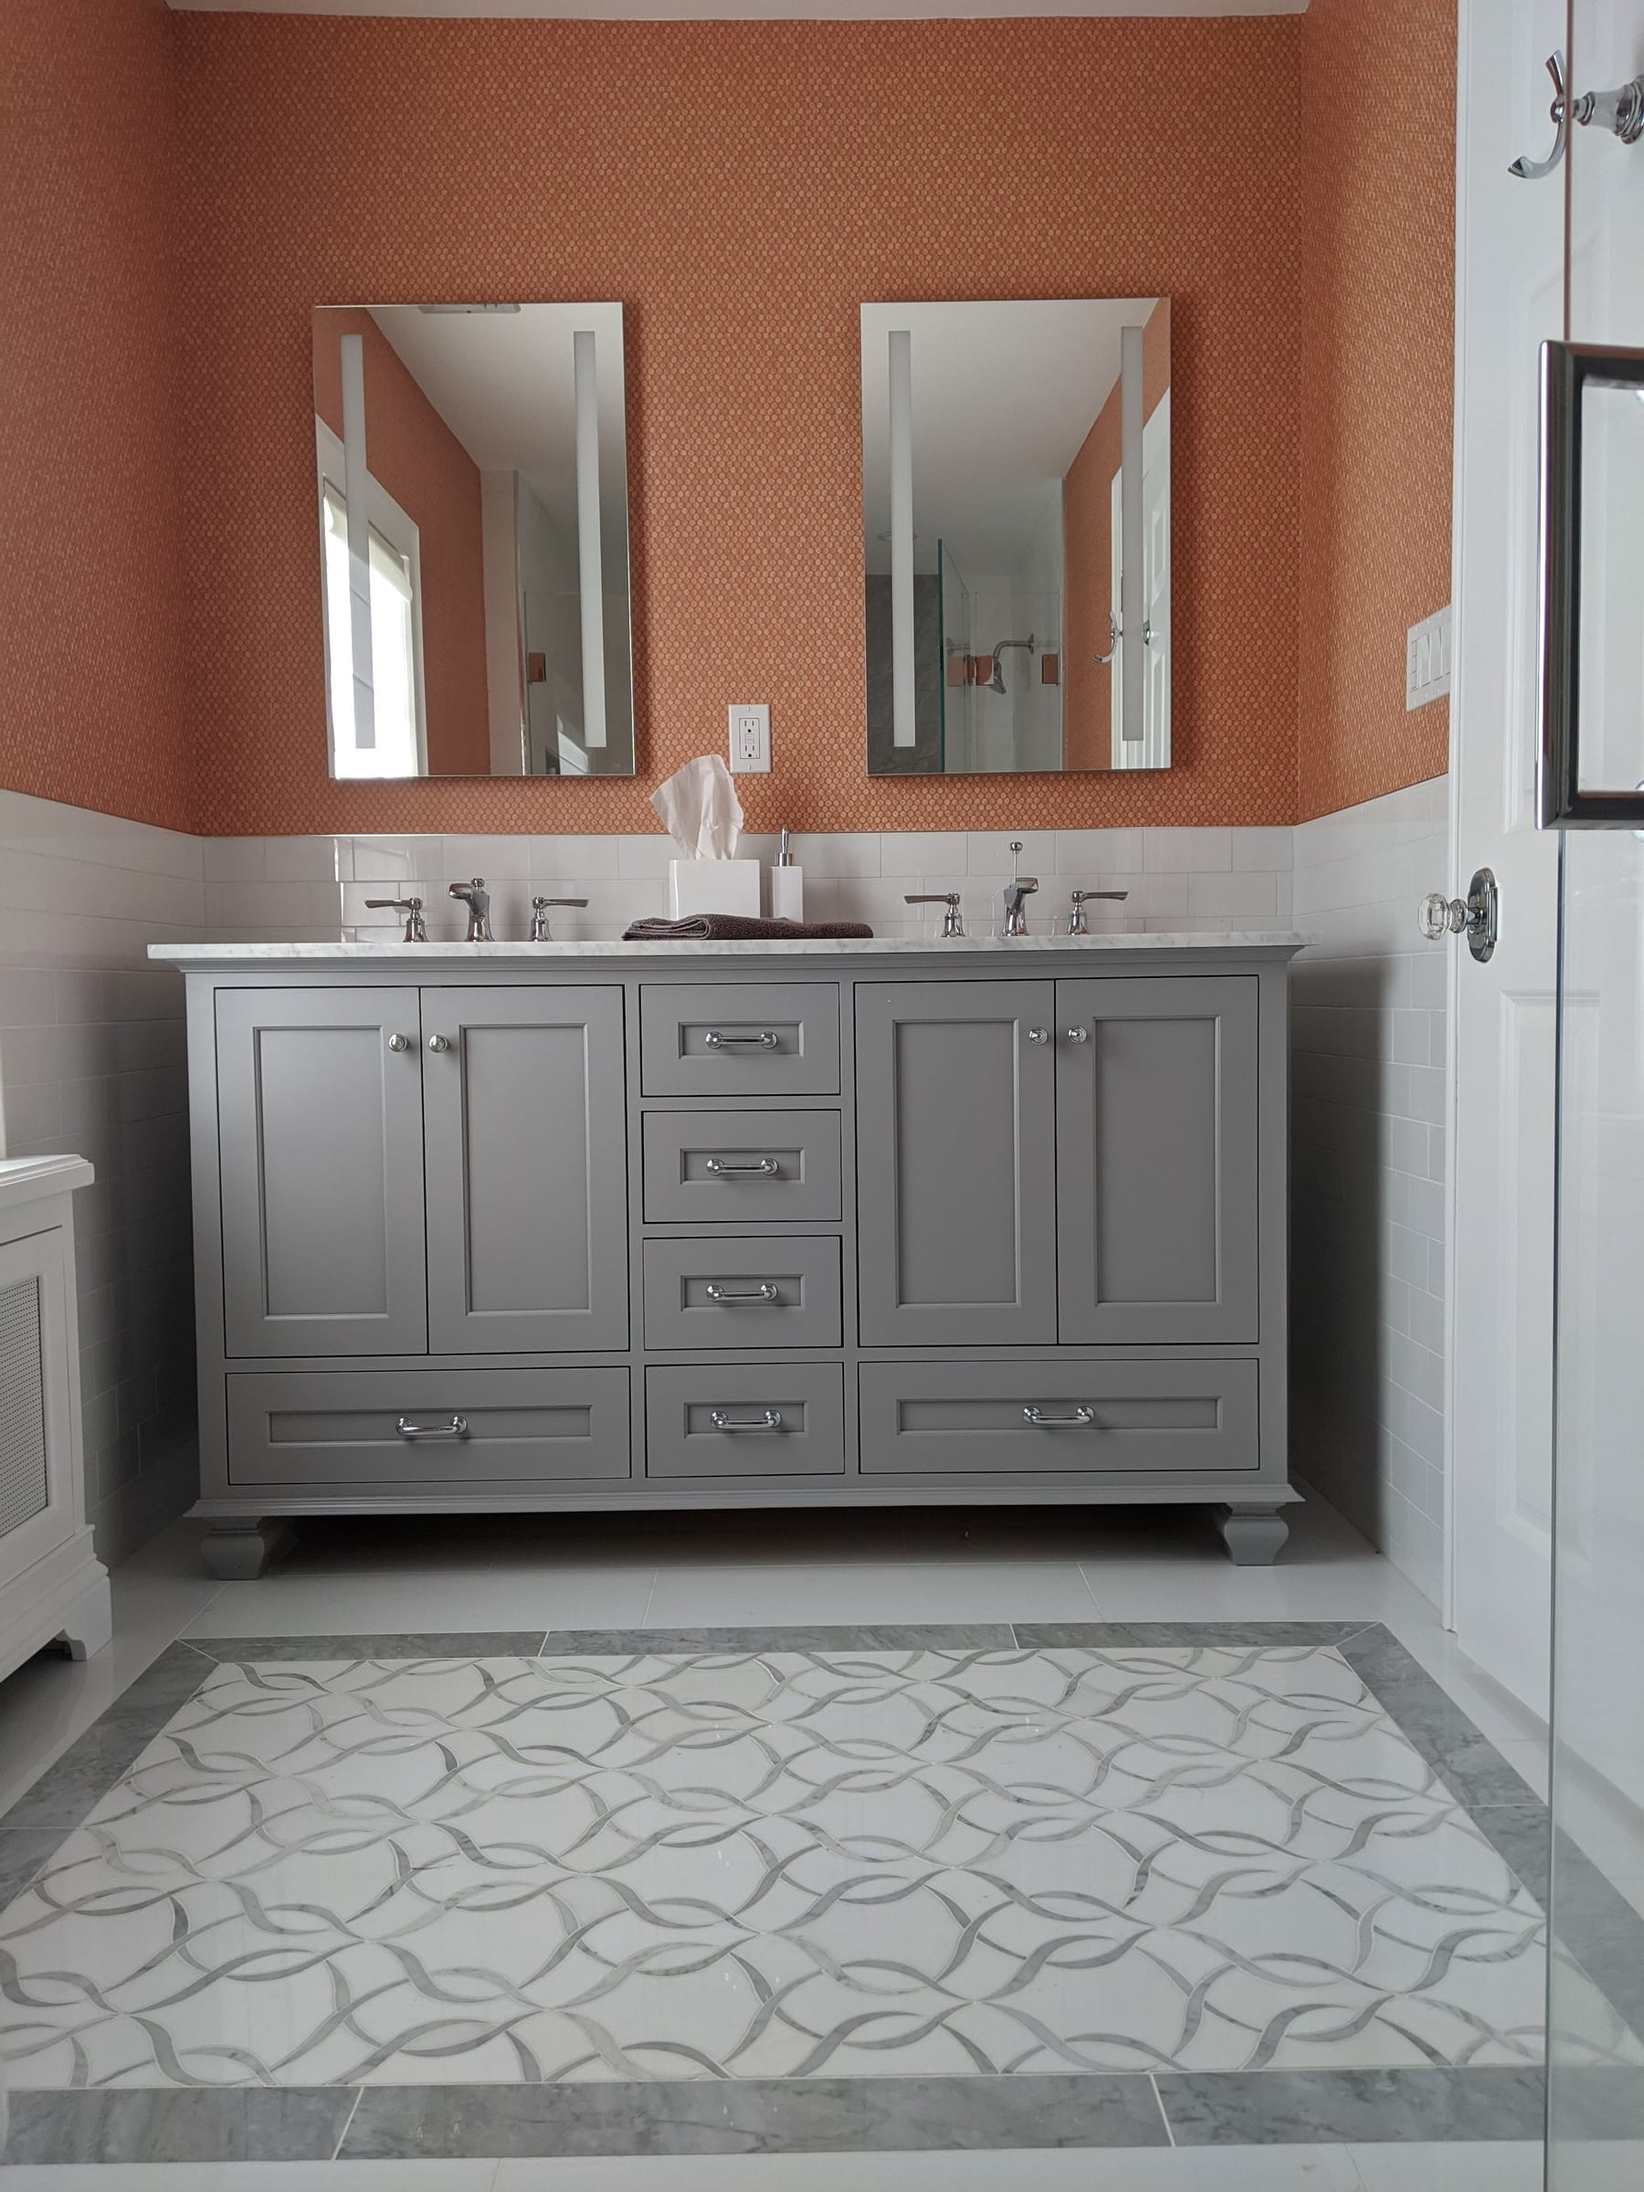
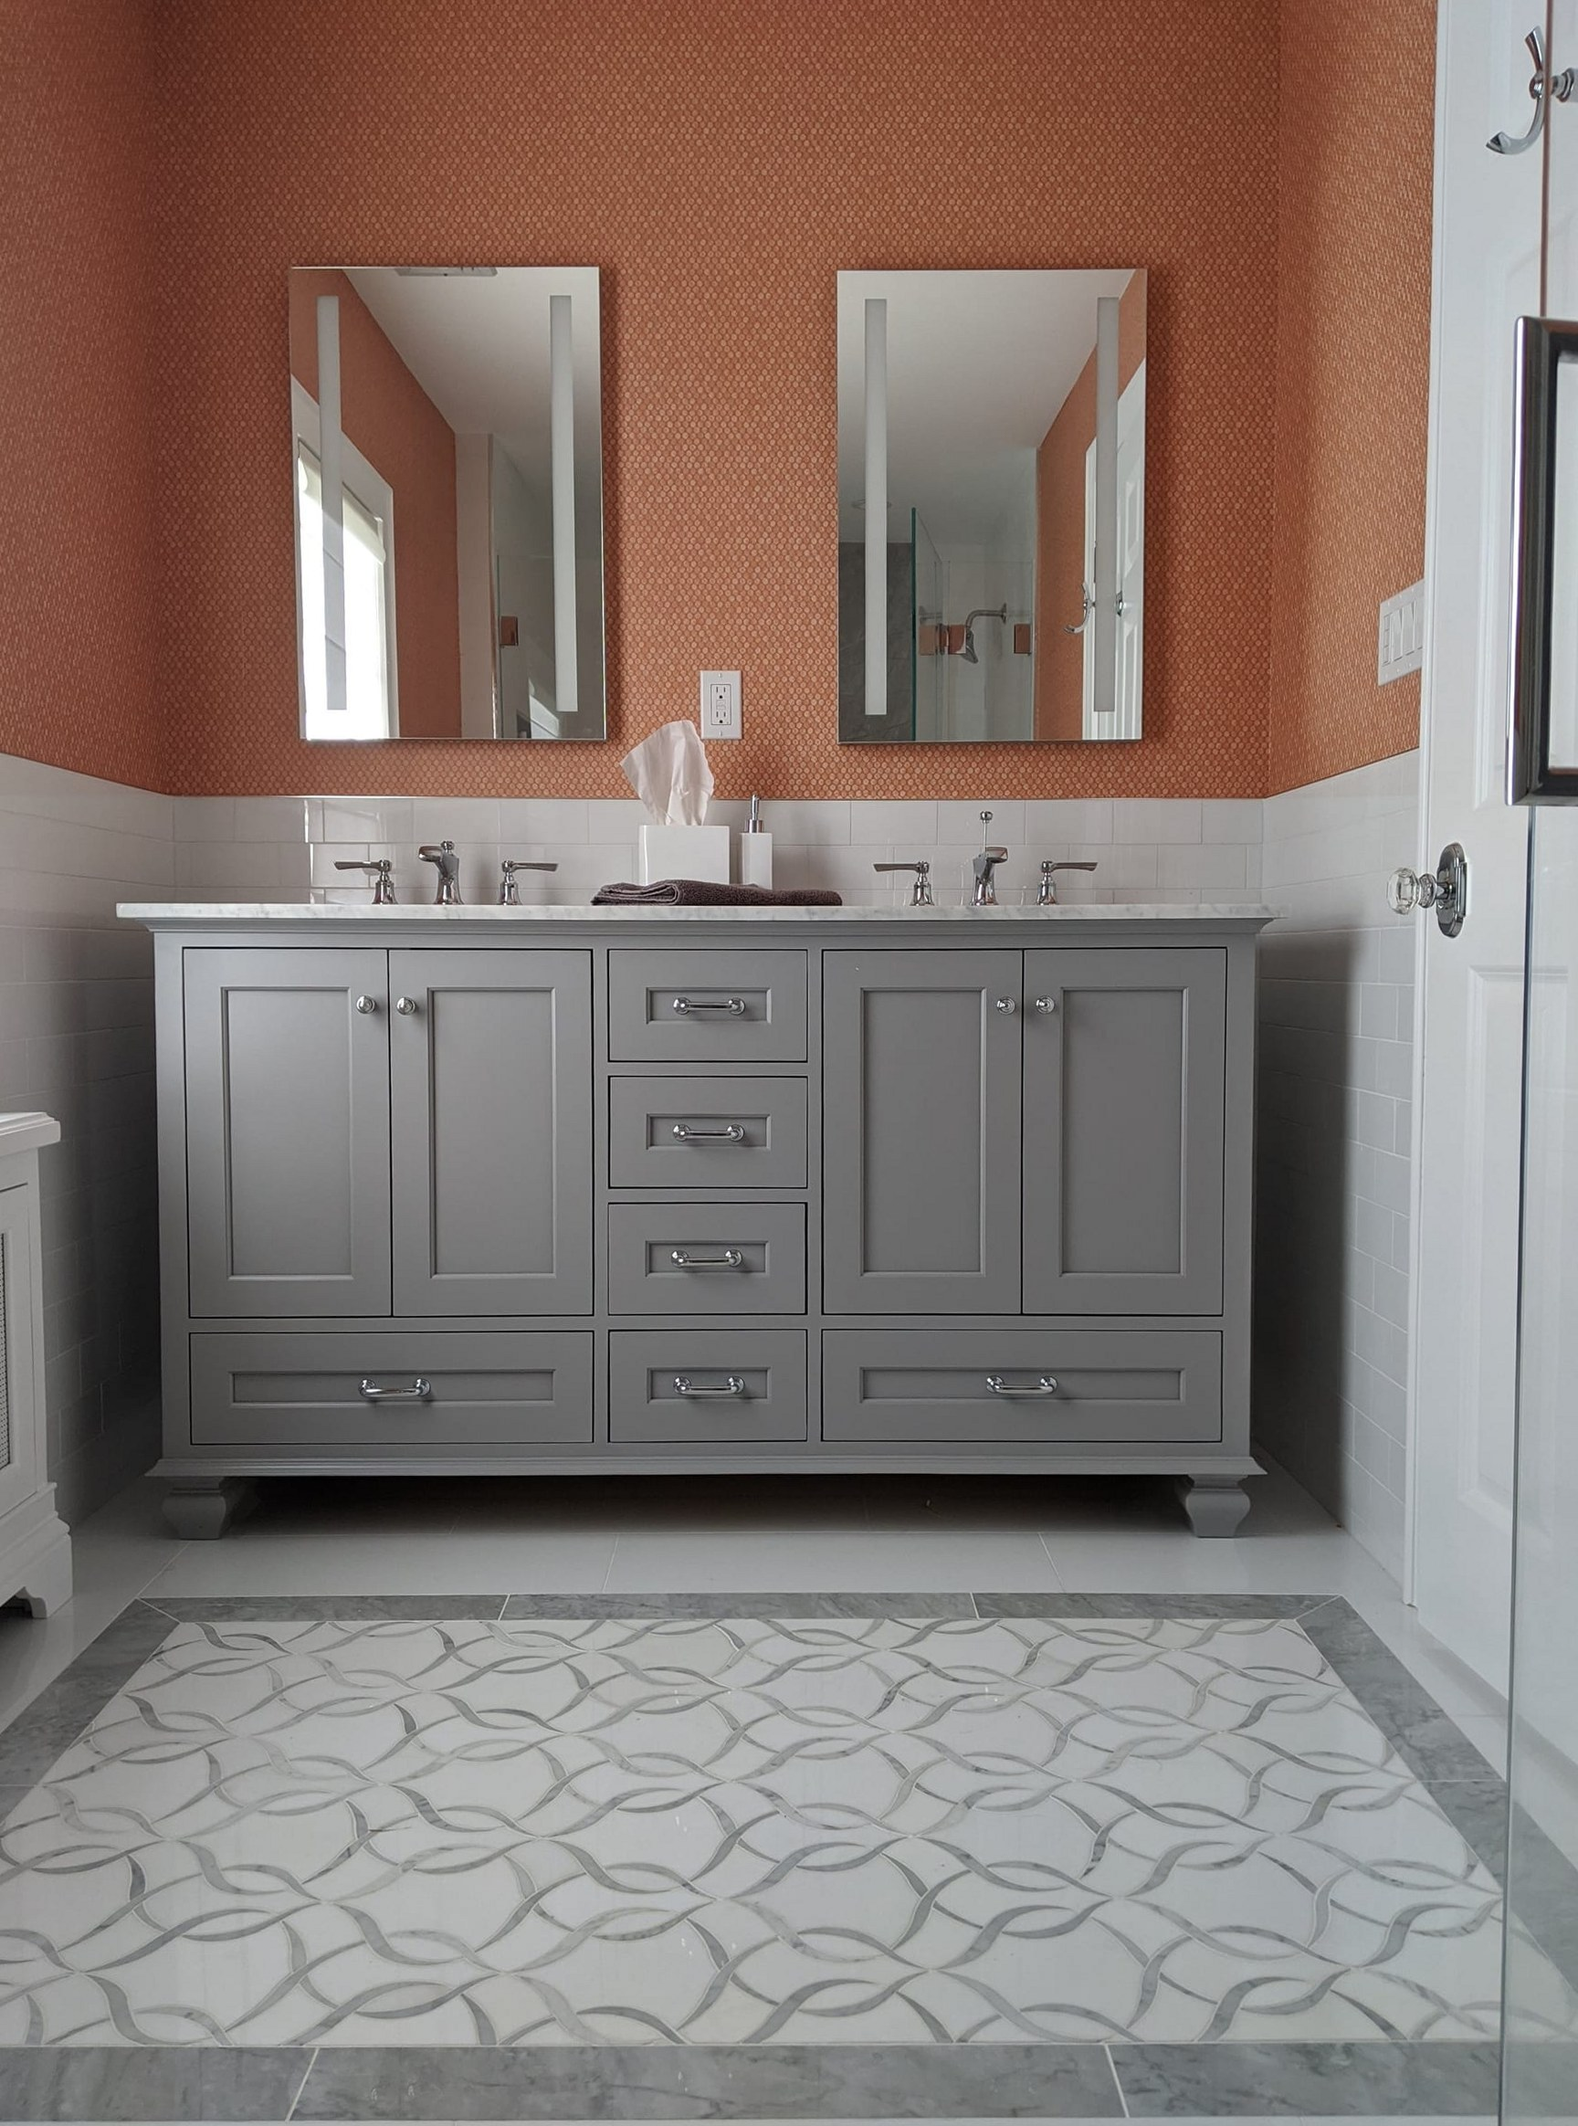
Home: the gray inset vanity as the second slide, levelled
The photo was about 0.7 degrees off; both the gallery copy and a
landscape crop for the slideshow are rotated level.

Changed region(s): [[0.0, 0.0, 1.0, 1.0], [0.0, 0.3093, 0.0938, 0.3711], [0.0312, 0.2784, 0.0625, 0.3093]]

diff --git a/src/content/pages/home.md b/src/content/pages/home.md
@@ -21,4 +21,7 @@ showroomButton: "Come in for a free design consultation"
 contactLabel: "Contact"
 contactHeading: "Come in for a free design consultation."
 contactButton: "Contact us"
+photos:
+  - image: "../../assets/home/02-custom-inset-gray-vanity.jpg"
+    caption: "Custom Inset Gray Vanity"
 ---
